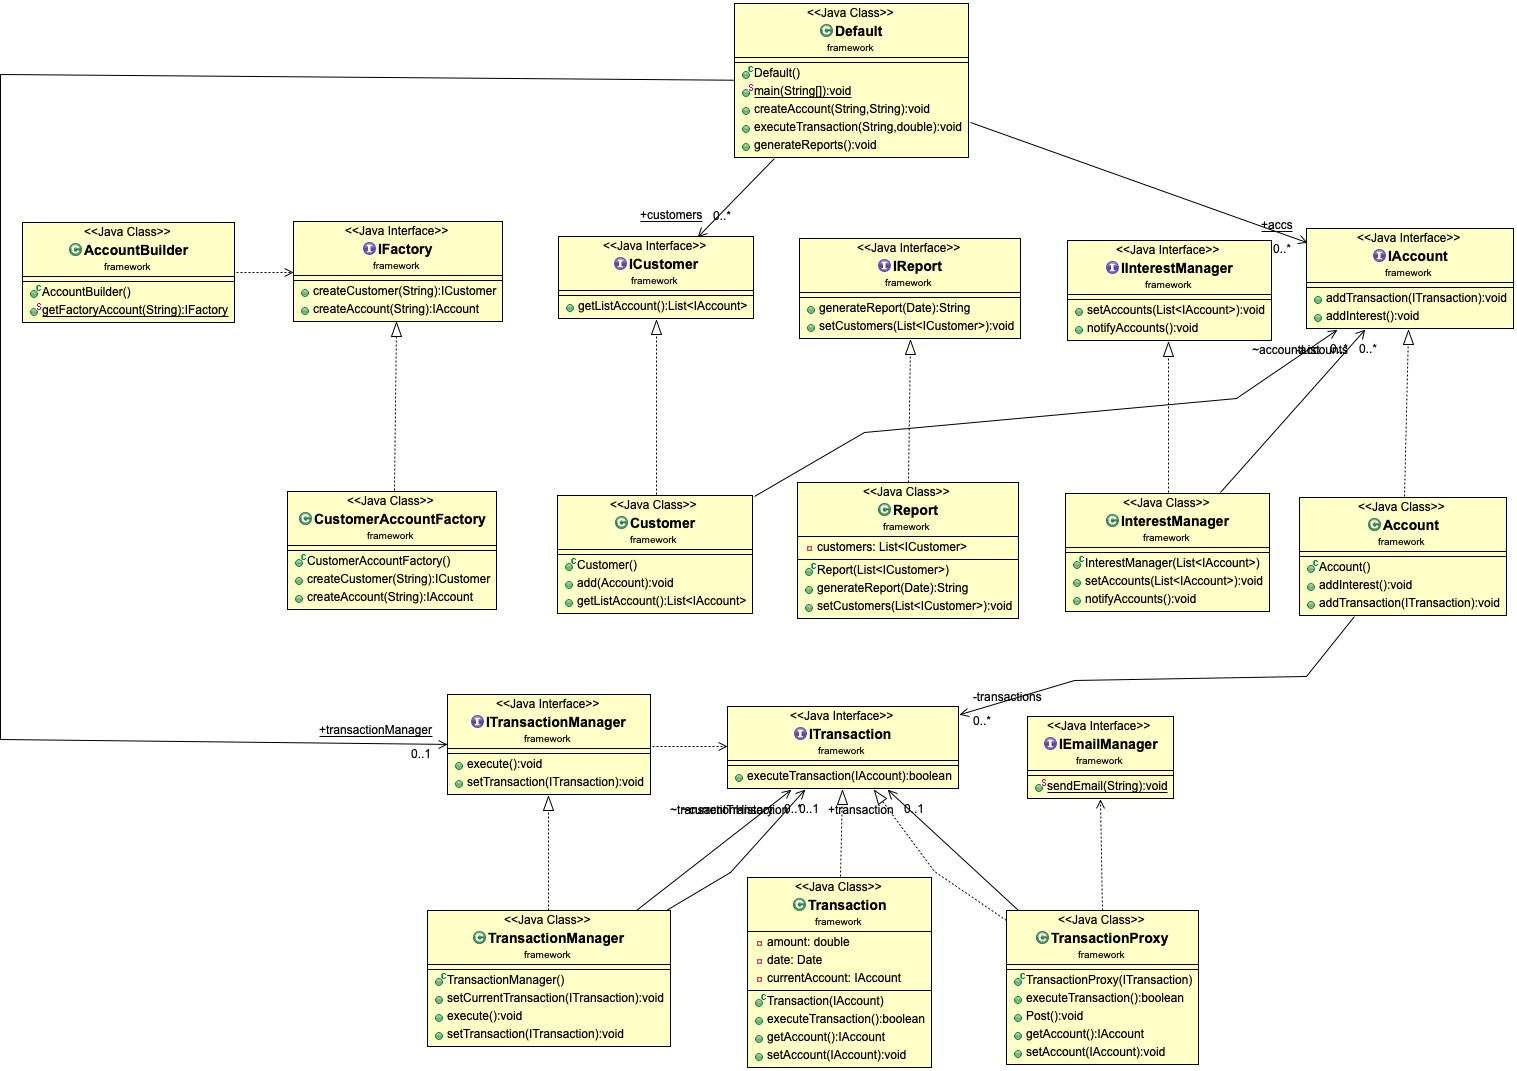
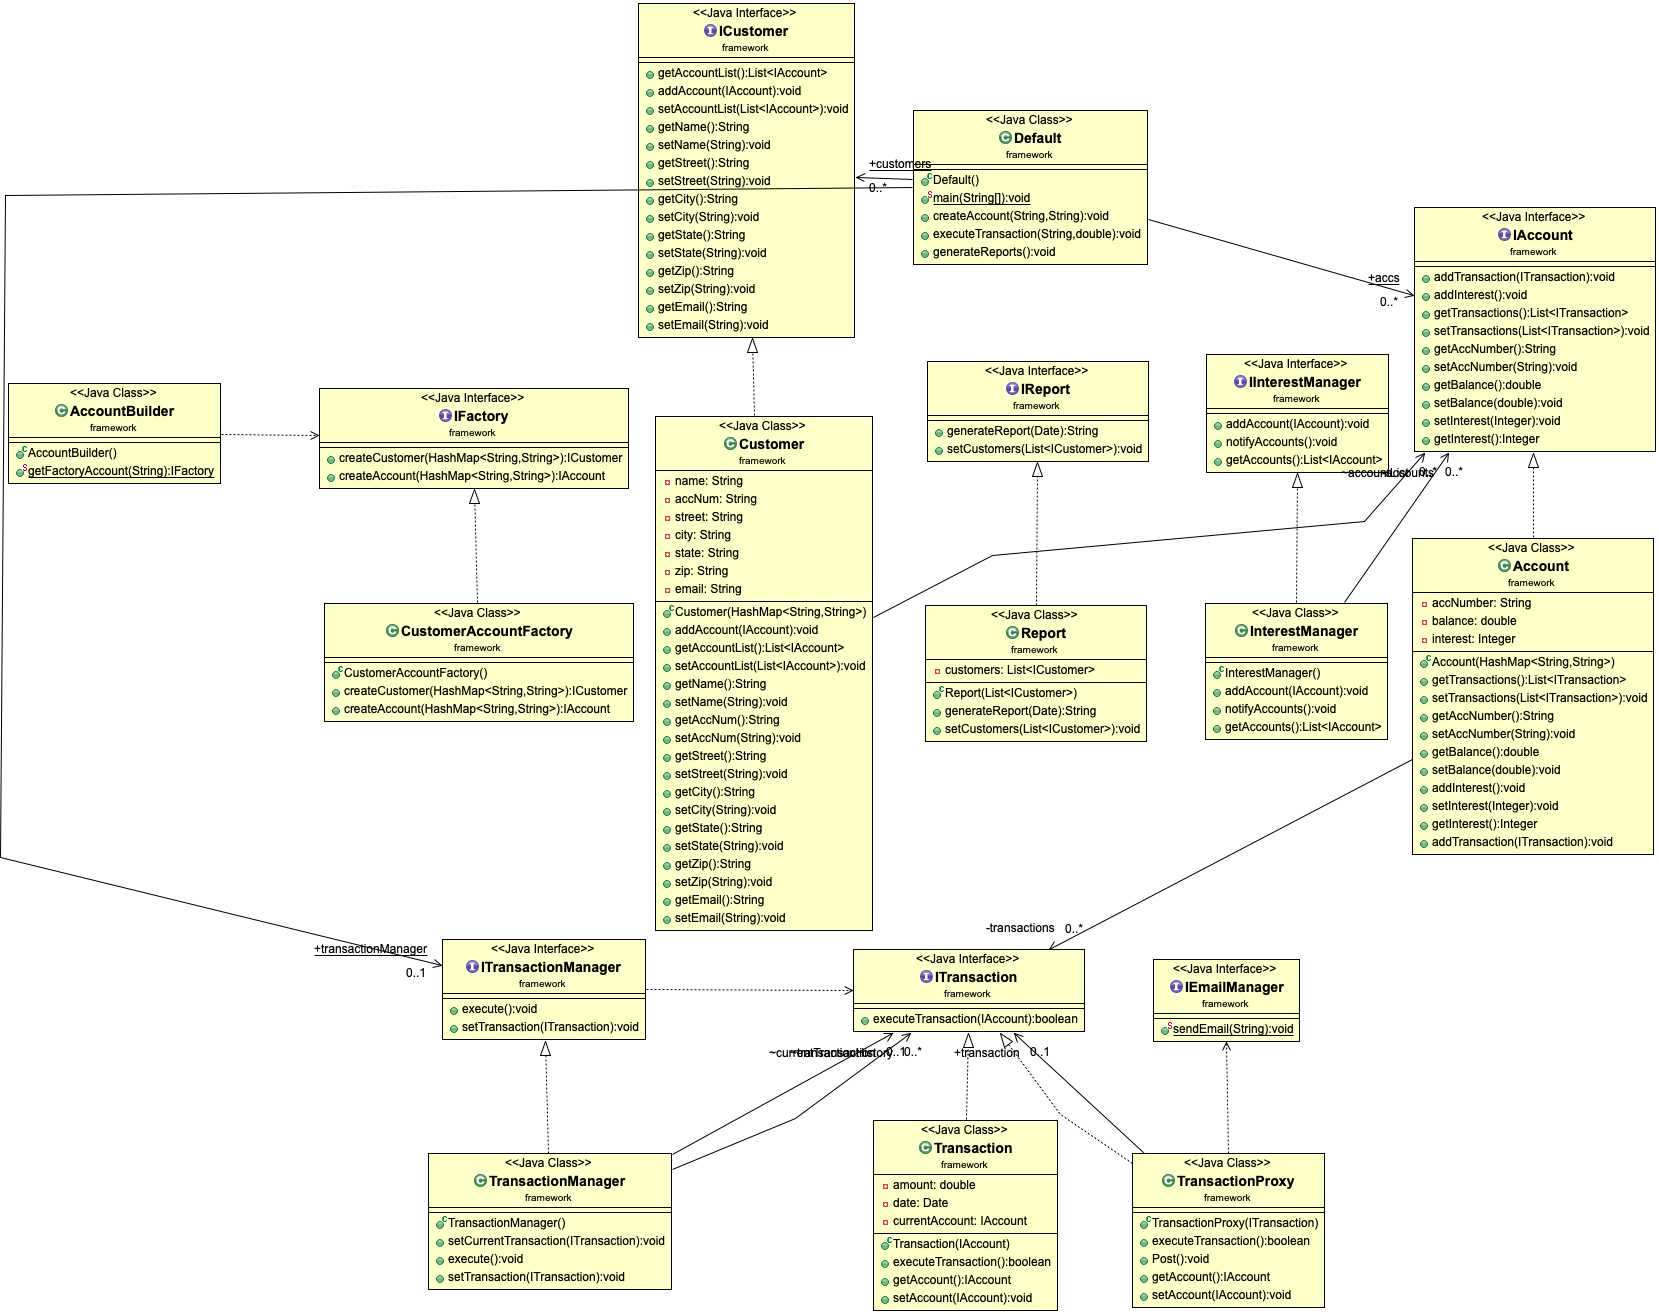
Finish the Add Interest for the Bank application

diff --git a/project/bank/bankUI/BankFrm.java b/project/bank/bankUI/BankFrm.java
@@ -3,11 +3,14 @@ package bank.bankUI;
 import java.awt.*;
 import java.awt.event.ActionEvent;
 import java.awt.event.WindowEvent;
+import java.util.List;
+import java.util.ArrayList;
 import java.util.Date;
 import java.util.HashMap;
 
 import javax.swing.table.DefaultTableModel;
 
+import bank.model.AccountsInterestManager;
 import bank.model.BankCustomerAccountsBuilder;
 import framework.IAccount;
 import framework.ICustomer;
@@ -43,7 +46,9 @@ public class BankFrm extends javax.swing.JFrame
     
 	private static IFactory currentFactory;
 	protected static HashMap<String, String> customData = new HashMap<>();
-
+	List<ICustomer> customers = new ArrayList<>();
+	AccountsInterestManager accountsManager = new AccountsInterestManager();
+	
 	public BankFrm()
 	{	
 		myframe = this;
@@ -231,13 +236,15 @@ public class BankFrm extends javax.swing.JFrame
 		pac.show();
 
 		if (newaccount){
-				
+			
 			//create new account
 			String factoryType = "personal" + accountType;
 			currentFactory = BankCustomerAccountsBuilder.getFactoryAccount(factoryType);
 			IAccount acc = currentFactory.createAccount(customData);
 			ICustomer customer = currentFactory.createCustomer(customData);
 			customer.addAccount(acc);
+			customers.add(customer);
+			accountsManager.addAccount(acc);
 			
             // add row to table
             rowdata[0] = acc.getAccNumber();
@@ -272,6 +279,8 @@ public class BankFrm extends javax.swing.JFrame
 			IAccount acc = currentFactory.createAccount(customData);
 			ICustomer customer = currentFactory.createCustomer(customData);
 			customer.addAccount(acc);
+			customers.add(customer);
+			accountsManager.addAccount(acc);
 			
             // add row to table
             rowdata[0] = acc.getAccNumber();
@@ -336,7 +345,7 @@ public class BankFrm extends javax.swing.JFrame
 	
 	void JButtonAddinterest_actionPerformed(java.awt.event.ActionEvent event)
 	{
+		  accountsManager.notifyAccounts();
 		  JOptionPane.showMessageDialog(JButton_Addinterest, "Add interest to all accounts","Add interest to all accounts",JOptionPane.WARNING_MESSAGE);
-	    
 	}
 }

diff --git a/project/framework/InterestManager.java b/project/framework/InterestManager.java
@@ -1,25 +1,24 @@
 package framework;
 
+import java.util.ArrayList;
 import java.util.List;
 
 public class InterestManager implements IInterestManager {
-	private List<IAccount> accounts;
-
-	public InterestManager(List<IAccount> accounts) {
-		this.accounts = accounts;
-	}
+	private List<IAccount> accounts = new ArrayList<>();
 
 	@Override
-	public void setAccounts(List<IAccount> accounts) {
-		this.accounts = accounts;
+	public void addAccount(IAccount account) {
+		this.accounts.add(account);
 	}
 
 	@Override
 	public void notifyAccounts() {
 		for (IAccount iAccount : accounts)
-			iAccount.addInterest();
-		
-		System.out.println("Add interest to all the accounts");
+			iAccount.addInterest();		
 	}
 
+	@Override
+	public List<IAccount> getAccounts() {
+		return accounts;
+	}
 }

diff --git a/project/bank/model/AccountsInterestManager.java b/project/bank/model/AccountsInterestManager.java
@@ -1,0 +1,18 @@
+package bank.model;
+
+import framework.IAccount;
+import framework.InterestManager;
+
+public class AccountsInterestManager extends InterestManager {
+
+	@Override
+	public void addAccount(IAccount account) {
+		super.addAccount(account);
+	}
+
+	@Override
+	public void notifyAccounts() {
+		for (IAccount account : super.getAccounts())
+			account.addInterest();		
+	}
+}

diff --git a/project/framework/IInterestManager.java b/project/framework/IInterestManager.java
@@ -4,8 +4,7 @@ import java.util.List;
 
 public interface  IInterestManager 
 {
-	void setAccounts(List<IAccount> accounts);
-
+	void addAccount(IAccount account);
 	void notifyAccounts();
-
+	List<IAccount> getAccounts();
 }
